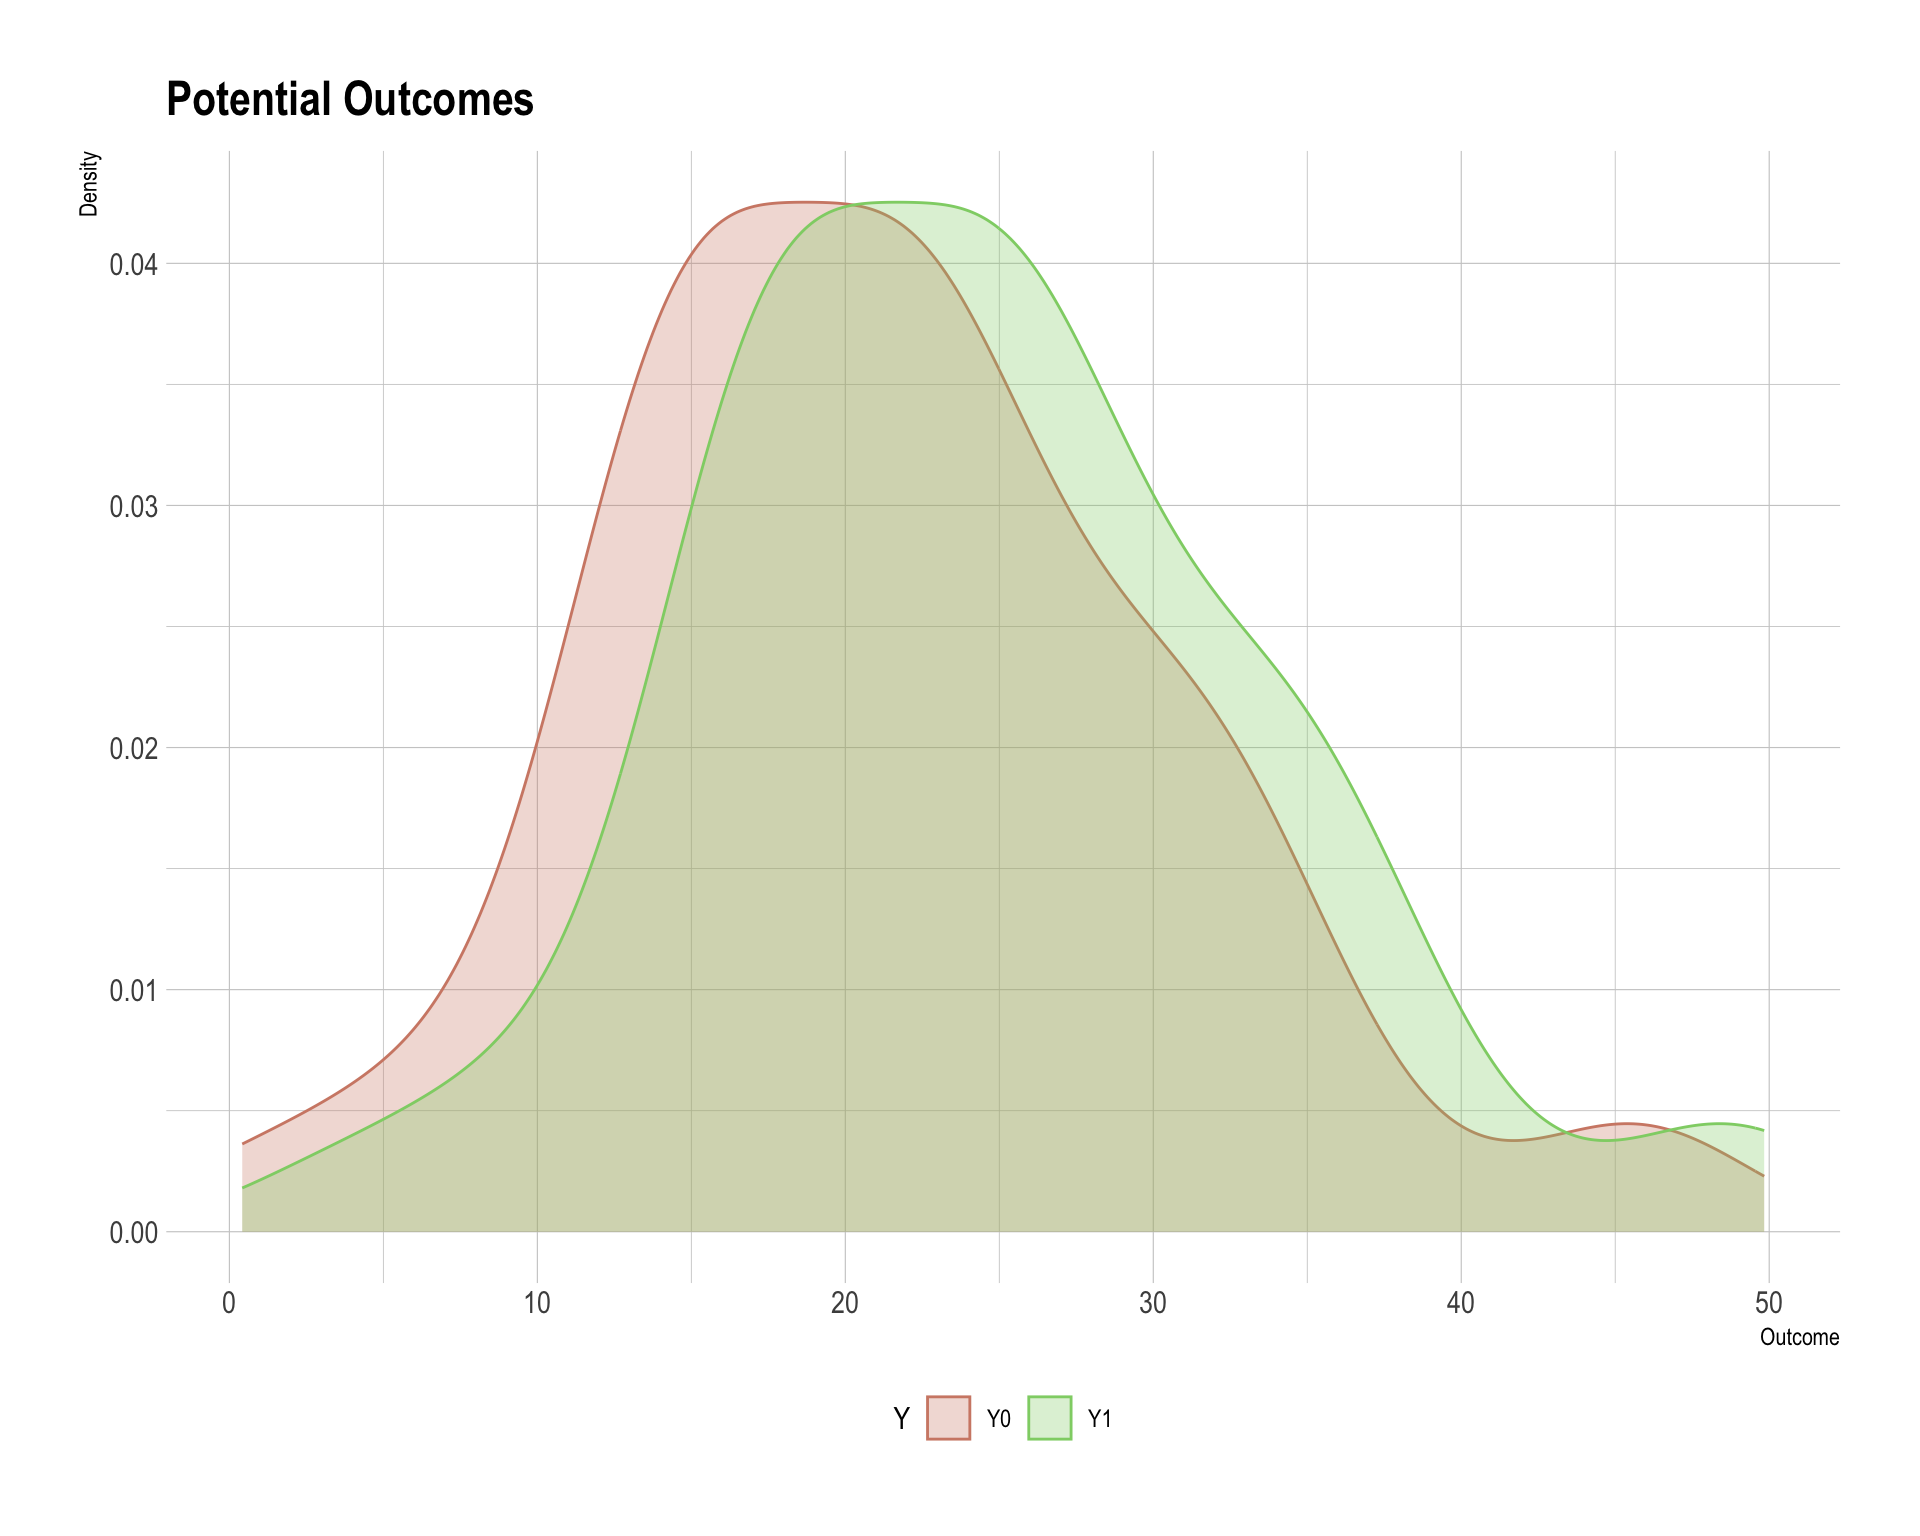
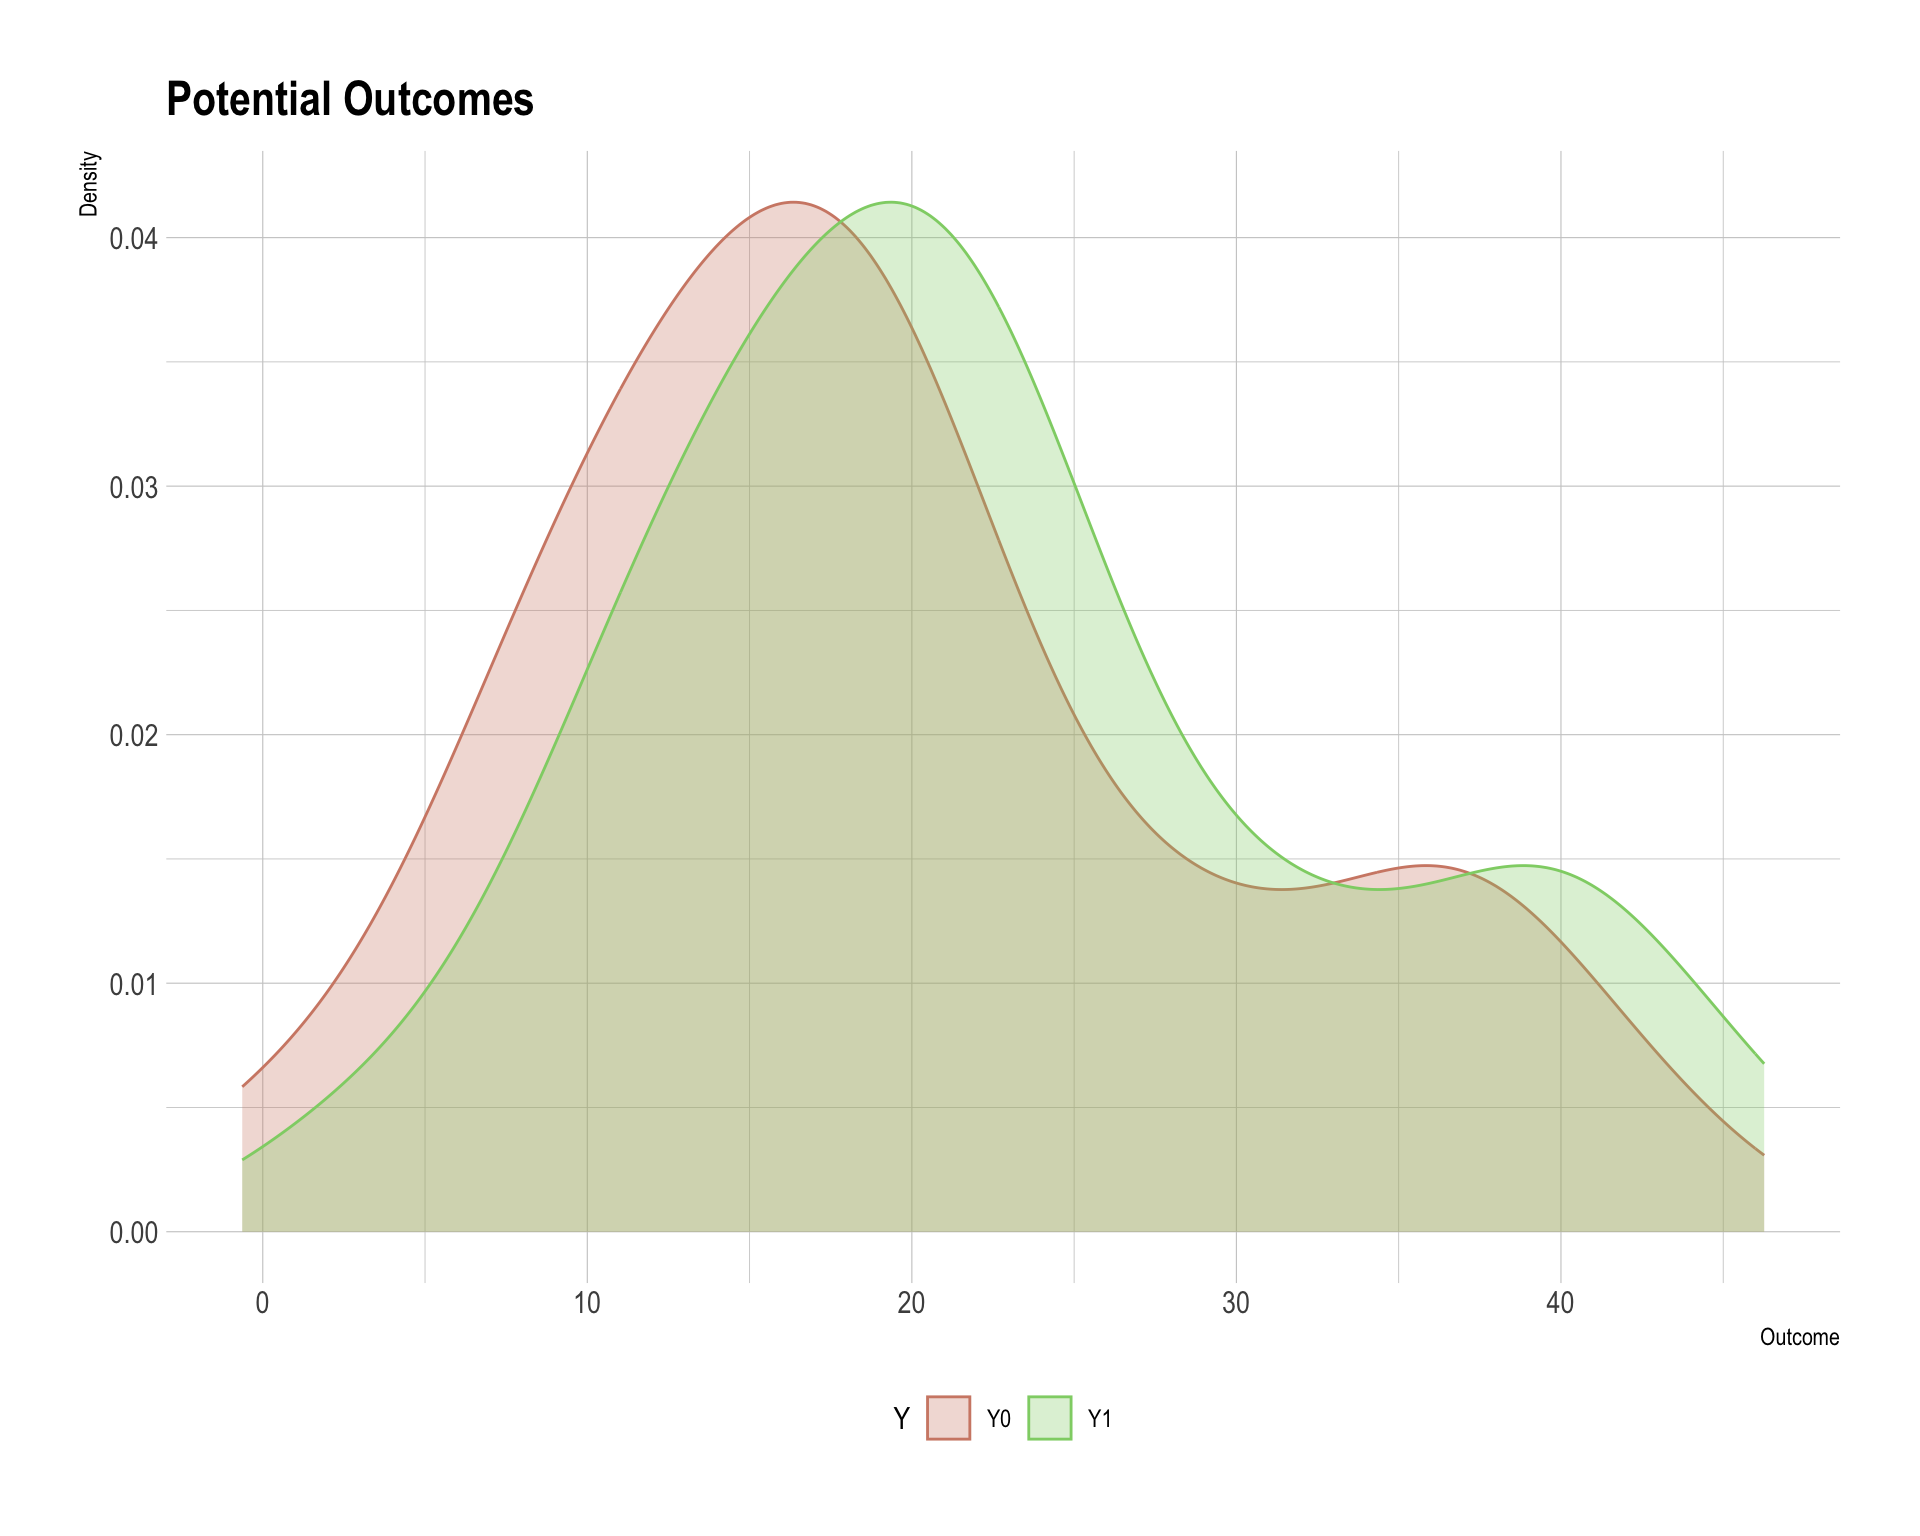
Built site for gh-pages

diff --git a/lectures/04-estimation_dplyr/estimation_dplyr.html b/lectures/04-estimation_dplyr/estimation_dplyr.html
@@ -554,7 +554,7 @@
   };
 
   // Store cell data
-  globalThis.qwebrCellDetails = [{"code":"\nlibrary(gapminder)\n\ngapminder |> \n  filter(country == \"Brazil\")","options":{"out-height":"","warning":"true","fig-height":5,"classes":"","comment":"","dpi":72,"output":"true","fig-width":7,"message":"true","label":"filter","echo":"true","results":"markup","autorun":"false","context":"interactive","out-width":"700px","fig-cap":"","read-only":"false"},"id":1},{"code":"\ngapminder |> \n  filter(country == \"Brazil\" & year == 2007)","options":{"label":"unnamed-chunk-2","out-height":"","output":"true","dpi":72,"fig-width":7,"comment":"","fig-height":5,"message":"true","read-only":"false","context":"interactive","results":"markup","classes":"","autorun":"false","out-width":"700px","fig-cap":"","warning":"true"},"id":2},{"code":"\ngapminder |> \n  filter(country %in% c(\"Brazil\", \"Argentina\") & year == 2007)","options":{"label":"unnamed-chunk-3","out-height":"","output":"true","dpi":72,"fig-width":7,"comment":"","fig-height":5,"message":"true","read-only":"false","context":"interactive","results":"markup","classes":"","autorun":"false","out-width":"700px","fig-cap":"","warning":"true"},"id":3},{"code":"\ngapminder |> \n  arrange(year, country)","options":{"label":"unnamed-chunk-4","out-height":"","output":"true","dpi":72,"fig-width":7,"comment":"","fig-height":5,"message":"true","read-only":"false","context":"interactive","results":"markup","classes":"","autorun":"false","out-width":"700px","fig-cap":"","warning":"true"},"id":4},{"code":"\ngapminder |> \n  arrange(gdpPercap)","options":{"label":"unnamed-chunk-5","out-height":"","output":"true","dpi":72,"fig-width":7,"comment":"","fig-height":5,"message":"true","read-only":"false","context":"interactive","results":"markup","classes":"","autorun":"false","out-width":"700px","fig-cap":"","warning":"true"},"id":5},{"code":"\ngapminder |> \n  arrange(desc(gdpPercap))","options":{"label":"unnamed-chunk-6","out-height":"","output":"true","dpi":72,"fig-width":7,"comment":"","fig-height":5,"message":"true","read-only":"false","context":"interactive","results":"markup","classes":"","autorun":"false","out-width":"700px","fig-cap":"","warning":"true"},"id":6},{"code":"\ngapminder |> \n  select(country, year, gdpPercap)","options":{"label":"unnamed-chunk-7","out-height":"","output":"true","dpi":72,"fig-width":7,"comment":"","fig-height":5,"message":"true","read-only":"false","context":"interactive","results":"markup","classes":"","autorun":"false","out-width":"700px","fig-cap":"","warning":"true"},"id":7},{"code":"\ngapminder |> \n  rename(population = pop)","options":{"label":"unnamed-chunk-8","out-height":"","output":"true","dpi":72,"fig-width":7,"comment":"","fig-height":5,"message":"true","read-only":"false","context":"interactive","results":"markup","classes":"","autorun":"false","out-width":"700px","fig-cap":"","warning":"true"},"id":8},{"code":"\ngapminder |> \n  mutate(gdp = gdpPercap * pop)","options":{"label":"unnamed-chunk-9","out-height":"","output":"true","dpi":72,"fig-width":7,"comment":"","fig-height":5,"message":"true","read-only":"false","context":"interactive","results":"markup","classes":"","autorun":"false","out-width":"700px","fig-cap":"","warning":"true"},"id":9},{"code":"\ngapminder |> \n  mutate(high_gdp = ifelse(gdpPercap > 10000, \"High\", \"Low\"))\n","options":{"label":"unnamed-chunk-10","out-height":"","output":"true","dpi":72,"fig-width":7,"comment":"","fig-height":5,"message":"true","read-only":"false","context":"interactive","results":"markup","classes":"","autorun":"false","out-width":"700px","fig-cap":"","warning":"true"},"id":10},{"code":"\ngapminder |> \n  group_by(country) ","options":{"label":"unnamed-chunk-11","out-height":"","output":"true","dpi":72,"fig-width":7,"comment":"","fig-height":5,"message":"true","read-only":"false","context":"interactive","results":"markup","classes":"","autorun":"false","out-width":"700px","fig-cap":"","warning":"true"},"id":11},{"code":"\ngapminder |>\n  filter(year == 2007) |>\n  group_by(continent) |>\n  summarize(mean_gdp = mean(gdpPercap),\n            total_pop = sum(pop))","options":{"label":"unnamed-chunk-12","out-height":"","output":"true","dpi":72,"fig-width":7,"comment":"","fig-height":5,"message":"true","read-only":"false","context":"interactive","results":"markup","classes":"","autorun":"false","out-width":"700px","fig-cap":"","warning":"true"},"id":12},{"code":"\ngapminder |>\n  filter(year == 2007) |>\n  group_by(continent) |>\n  mutate(rank = rank(desc(gdpPercap)))","options":{"label":"unnamed-chunk-13","out-height":"","output":"true","dpi":72,"fig-width":7,"comment":"","fig-height":5,"message":"true","read-only":"false","context":"interactive","results":"markup","classes":"","autorun":"false","out-width":"700px","fig-cap":"","warning":"true"},"id":13}];
+  globalThis.qwebrCellDetails = [{"options":{"context":"interactive","label":"filter","read-only":"false","comment":"","out-height":"","results":"markup","message":"true","output":"true","fig-height":5,"out-width":"700px","autorun":"false","fig-width":7,"dpi":72,"classes":"","echo":"true","fig-cap":"","warning":"true"},"code":"\nlibrary(gapminder)\n\ngapminder |> \n  filter(country == \"Brazil\")","id":1},{"options":{"context":"interactive","autorun":"false","label":"unnamed-chunk-2","read-only":"false","fig-width":7,"comment":"","out-height":"","results":"markup","message":"true","output":"true","classes":"","warning":"true","dpi":72,"fig-height":5,"out-width":"700px","fig-cap":""},"code":"\ngapminder |> \n  filter(country == \"Brazil\" & year == 2007)","id":2},{"options":{"context":"interactive","autorun":"false","label":"unnamed-chunk-3","read-only":"false","fig-width":7,"comment":"","out-height":"","results":"markup","message":"true","output":"true","classes":"","warning":"true","dpi":72,"fig-height":5,"out-width":"700px","fig-cap":""},"code":"\ngapminder |> \n  filter(country %in% c(\"Brazil\", \"Argentina\") & year == 2007)","id":3},{"options":{"context":"interactive","autorun":"false","label":"unnamed-chunk-4","read-only":"false","fig-width":7,"comment":"","out-height":"","results":"markup","message":"true","output":"true","classes":"","warning":"true","dpi":72,"fig-height":5,"out-width":"700px","fig-cap":""},"code":"\ngapminder |> \n  arrange(year, country)","id":4},{"options":{"context":"interactive","autorun":"false","label":"unnamed-chunk-5","read-only":"false","fig-width":7,"comment":"","out-height":"","results":"markup","message":"true","output":"true","classes":"","warning":"true","dpi":72,"fig-height":5,"out-width":"700px","fig-cap":""},"code":"\ngapminder |> \n  arrange(gdpPercap)","id":5},{"options":{"context":"interactive","autorun":"false","label":"unnamed-chunk-6","read-only":"false","fig-width":7,"comment":"","out-height":"","results":"markup","message":"true","output":"true","classes":"","warning":"true","dpi":72,"fig-height":5,"out-width":"700px","fig-cap":""},"code":"\ngapminder |> \n  arrange(desc(gdpPercap))","id":6},{"options":{"context":"interactive","autorun":"false","label":"unnamed-chunk-7","read-only":"false","fig-width":7,"comment":"","out-height":"","results":"markup","message":"true","output":"true","classes":"","warning":"true","dpi":72,"fig-height":5,"out-width":"700px","fig-cap":""},"code":"\ngapminder |> \n  select(country, year, gdpPercap)","id":7},{"options":{"context":"interactive","autorun":"false","label":"unnamed-chunk-8","read-only":"false","fig-width":7,"comment":"","out-height":"","results":"markup","message":"true","output":"true","classes":"","warning":"true","dpi":72,"fig-height":5,"out-width":"700px","fig-cap":""},"code":"\ngapminder |> \n  rename(population = pop)","id":8},{"options":{"context":"interactive","autorun":"false","label":"unnamed-chunk-9","read-only":"false","fig-width":7,"comment":"","out-height":"","results":"markup","message":"true","output":"true","classes":"","warning":"true","dpi":72,"fig-height":5,"out-width":"700px","fig-cap":""},"code":"\ngapminder |> \n  mutate(gdp = gdpPercap * pop)","id":9},{"options":{"context":"interactive","autorun":"false","label":"unnamed-chunk-10","read-only":"false","fig-width":7,"comment":"","out-height":"","results":"markup","message":"true","output":"true","classes":"","warning":"true","dpi":72,"fig-height":5,"out-width":"700px","fig-cap":""},"code":"\ngapminder |> \n  mutate(high_gdp = ifelse(gdpPercap > 10000, \"High\", \"Low\"))\n","id":10},{"options":{"context":"interactive","autorun":"false","label":"unnamed-chunk-11","read-only":"false","fig-width":7,"comment":"","out-height":"","results":"markup","message":"true","output":"true","classes":"","warning":"true","dpi":72,"fig-height":5,"out-width":"700px","fig-cap":""},"code":"\ngapminder |> \n  group_by(country) ","id":11},{"options":{"context":"interactive","autorun":"false","label":"unnamed-chunk-12","read-only":"false","fig-width":7,"comment":"","out-height":"","results":"markup","message":"true","output":"true","classes":"","warning":"true","dpi":72,"fig-height":5,"out-width":"700px","fig-cap":""},"code":"\ngapminder |>\n  filter(year == 2007) |>\n  group_by(continent) |>\n  summarize(mean_gdp = mean(gdpPercap),\n            total_pop = sum(pop))","id":12},{"options":{"context":"interactive","autorun":"false","label":"unnamed-chunk-13","read-only":"false","fig-width":7,"comment":"","out-height":"","results":"markup","message":"true","output":"true","classes":"","warning":"true","dpi":72,"fig-height":5,"out-width":"700px","fig-cap":""},"code":"\ngapminder |>\n  filter(year == 2007) |>\n  group_by(continent) |>\n  mutate(rank = rank(desc(gdpPercap)))","id":13}];
 
   </script>
   <script type="module">
@@ -1490,14 +1490,14 @@ F. Daniel Hidalgo
 <span id="cb1-9"><a></a><span class="fu">head</span>(po)</span></code><button title="Copy to Clipboard" class="code-copy-button"><i class="bi"></i></button></pre></div>
 <div class="cell-output cell-output-stdout">
 <pre><code># A tibble: 6 × 3
-      X    Y0    Y1
-  &lt;dbl&gt; &lt;dbl&gt; &lt;dbl&gt;
-1 2.09   21.8  24.8
-2 4.47   30.2  33.2
-3 3.85   23.9  26.9
-4 1.79   21.7  24.7
-5 0.932  17.3  20.3
-6 2.75   17.4  20.4</code></pre>
+       X    Y0    Y1
+   &lt;dbl&gt; &lt;dbl&gt; &lt;dbl&gt;
+1 0.0677  6.19  9.19
+2 3.09   28.4  31.4 
+3 1.11   15.4  18.4 
+4 3.74   20.0  23.0 
+5 2.01   18.0  21.0 
+6 0.577  18.3  21.3 </code></pre>
 </div>
 </div>
 </div><div class="column fragment" style="width:50%;">
@@ -1537,7 +1537,7 @@ F. Daniel Hidalgo
 <span id="cb4-6"><a></a></span>
 <span id="cb4-7"><a></a>est_ate</span></code><button title="Copy to Clipboard" class="code-copy-button"><i class="bi"></i></button></pre></div>
 <div class="cell-output cell-output-stdout">
-<pre><code>[1] 5.78439</code></pre>
+<pre><code>[1] -2.040671</code></pre>
 </div>
 </div>
 <div class="cell">
@@ -1572,7 +1572,7 @@ F. Daniel Hidalgo
 <span id="cb7-8"><a></a>another_draw <span class="ot">&lt;-</span> <span class="fu">estim_ate</span>(po)</span>
 <span id="cb7-9"><a></a>another_draw</span></code><button title="Copy to Clipboard" class="code-copy-button"><i class="bi"></i></button></pre></div>
 <div class="cell-output cell-output-stdout">
-<pre><code>[1] 3.674837</code></pre>
+<pre><code>[1] 5.791896</code></pre>
 </div>
 </div>
 <div class="cell">
@@ -1622,7 +1622,7 @@ F. Daniel Hidalgo
 <div class="cell">
 <div class="sourceCode cell-code" id="cb12"><pre class="sourceCode numberSource r number-lines code-with-copy"><code class="sourceCode r"><span id="cb12-1"><a></a><span class="fu">mean</span>(estimates)</span></code><button title="Copy to Clipboard" class="code-copy-button"><i class="bi"></i></button></pre></div>
 <div class="cell-output cell-output-stdout">
-<pre><code>[1] 2.829947</code></pre>
+<pre><code>[1] 2.984171</code></pre>
 </div>
 </div>
 </div>
@@ -1661,7 +1661,7 @@ F. Daniel Hidalgo
 <p><span class="math display">\[
 \begin{align}
 E\left[\frac{\sum_{i=1}^{m} Y_i}{m} - \frac{\sum_{i=m+1}^{N} Y_i}{N - m}\right] &amp;= E\left[\frac{\sum_{i=1}^{m} Y_i}{m}\right] - E\left[\frac{\sum_{i=m+1}^{N} Y_i}{N - m}\right] \\
-&amp;= \frac{E[Y_i(1) | D_i = 1]}{m} - \frac{E[Y_i(0) | D_i = 0]}{N - m} \\
+&amp;= E[Y_i(1) | D_i = 1] - E[Y_i(0) | D_i = 0] \\
 &amp;= E[Y_i(1)] - E[Y_i(0)] \\
 &amp;= E[\tau_i] = \text{ATE}.
 \end{align}
